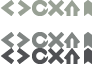
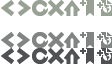
bug 4534 - Make a 'Create Linked Playlist' button for Web bar. (r=matt)
git-svn-id: http://publicsvn.songbirdnest.com/client/trunk@6350 5aad4ff5-4b58-4159-ba3f-0e6328df4cad

diff --git a/components/playlistcommands/src/sbPublicPlaylistCommands.js b/components/playlistcommands/src/sbPublicPlaylistCommands.js
@@ -97,7 +97,6 @@ PublicPlaylistCommands.prototype = {
   m_cmd_Remove                    : null, // remove the selected track(s)
   m_cmd_Edit                      : null, // edit the selected track(s)
   m_cmd_Download                  : null, // download the selected track(s)
-  m_cmd_Subscribe                 : null, // subscribe to the currently displayed site
   m_cmd_AddToLibrary              : null, // add the selection to the library
   m_cmd_CopyTrackLocation         : null, // copy the select track(s) location(s)
   m_cmd_ShowDownloadPlaylist      : null, // switch the outer playlist container to the download playlist
@@ -284,29 +283,6 @@ PublicPlaylistCommands.prototype = {
     this.m_cmd_Download.setCommandEnabledCallback(null,
                                                   "library_cmd_download",
                                                   plCmd_IsAnyTrackSelected);
-    
-    // --------------------------------------------------------------------------
-    // The SUBSCRIBE button
-    // --------------------------------------------------------------------------
-
-    this.m_cmd_Subscribe = new PlaylistCommandsBuilder();
-
-    this.m_cmd_Subscribe.appendAction(null, 
-                                      "library_cmd_subscribe",
-                                      "&command.subscribe",
-                                      "&command.tooltip.subscribe",
-                                      plCmd_Subscribe_TriggerCallback);
-
-    this.m_cmd_Subscribe.setCommandShortcut(null,
-                                            "library_cmd_subscribe",
-                                            "&command.shortcut.key.subscribe",
-                                            "&command.shortcut.keycode.subscribe",
-                                            "&command.shortcut.modifiers.subscribe",
-                                            true);
-
-    this.m_cmd_Subscribe.setCommandEnabledCallback(null,
-                                                   "library_cmd_subscribe",
-                                                   plCmd_CanSubscribe);
 
     // --------------------------------------------------------------------------
     // The ADDTOLIBRARY button
@@ -540,7 +516,6 @@ PublicPlaylistCommands.prototype = {
     this.m_mgr.publish(kPlaylistCommands.MEDIAITEM_REMOVE, this.m_cmd_Remove);
     this.m_mgr.publish(kPlaylistCommands.MEDIAITEM_EDIT, this.m_cmd_Edit);
     this.m_mgr.publish(kPlaylistCommands.MEDIAITEM_DOWNLOAD, this.m_cmd_Download);
-    this.m_mgr.publish(kPlaylistCommands.MEDIAITEM_SUBSCRIBE, this.m_cmd_Subscribe);
     this.m_mgr.publish(kPlaylistCommands.MEDIAITEM_ADDTOLIBRARY, this.m_cmd_AddToLibrary);
     this.m_mgr.publish(kPlaylistCommands.MEDIAITEM_ADDTOPLAYLIST, SBPlaylistCommand_AddToPlaylist);
     this.m_mgr.publish(kPlaylistCommands.MEDIAITEM_COPYTRACKLOCATION, this.m_cmd_CopyTrackLocation);
@@ -597,9 +572,6 @@ PublicPlaylistCommands.prototype = {
     this.m_webPlaylistCommands.appendPlaylistCommands(null, 
                                                       "library_cmdobj_download",
                                                       this.m_cmd_Download);
-    this.m_webPlaylistCommands.appendPlaylistCommands(null, 
-                                                      "library_cmdobj_subscribe",
-                                                      this.m_cmd_Subscribe);
     this.m_webPlaylistCommands.appendPlaylistCommands(null, 
                                                       "library_cmdobj_addtoplaylist",
                                                       SBPlaylistCommand_AddToPlaylist);
@@ -695,7 +667,6 @@ PublicPlaylistCommands.prototype = {
     this.m_mgr.withdraw(kPlaylistCommands.MEDIAITEM_REMOVE, this.m_cmd_Remove);
     this.m_mgr.withdraw(kPlaylistCommands.MEDIAITEM_EDIT, this.m_cmd_Edit);
     this.m_mgr.withdraw(kPlaylistCommands.MEDIAITEM_DOWNLOAD, this.m_cmd_Download);
-    this.m_mgr.withdraw(kPlaylistCommands.MEDIAITEM_SUBSCRIBE, this.m_cmd_Subscribe);
     this.m_mgr.withdraw(kPlaylistCommands.MEDIAITEM_ADDTOLIBRARY, this.m_cmd_AddToLibrary);
     this.m_mgr.withdraw(kPlaylistCommands.MEDIAITEM_ADDTOPLAYLIST, SBPlaylistCommand_AddToPlaylist);
     this.m_mgr.withdraw(kPlaylistCommands.MEDIAITEM_COPYTRACKLOCATION, this.m_cmd_CopyTrackLocation);
@@ -753,7 +724,6 @@ PublicPlaylistCommands.prototype = {
     this.m_cmd_Remove.shutdown();
     this.m_cmd_Edit.shutdown();
     this.m_cmd_Download.shutdown();
-    this.m_cmd_Subscribe.shutdown();
     this.m_cmd_AddToLibrary.shutdown();
     this.m_cmd_CopyTrackLocation.shutdown();
     this.m_cmd_ShowDownloadPlaylist.shutdown();
@@ -871,17 +841,6 @@ function plCmd_Download_TriggerCallback(aContext, aSubMenuId, aCommandId, aHost)
   catch( err )          
   {
     LOG( "plCmd_Download_TriggerCallback Error:" + err );
-  }
-}
-
-// Called when the subscribe action is triggered
-function plCmd_Subscribe_TriggerCallback(aContext, aSubMenuId, aCommandId, aHost) {
-  // Bring up the subscribe dialog with the web playlist url
-  // XXX this should instead extract the url from an #originPage property on the list
-  var window = unwrap(aContext.window);
-  var browser = window.gBrowser;
-  if (browser) {
-    window.SBSubscribe(null, browser.currentURI); 
   }
 }
 
@@ -1069,12 +1028,6 @@ function plCmd_IsToolbarInstantiator(aContext, aSubMenuId, aCommandId, aHost) {
 function plCmd_IsNotLibraryContext(aContext, aSubMenuId, aCommandId, aHost) {
   var medialist = unwrap(aContext.medialist);
   return (medialist.library != medialist);
-}
-
-// Returns true if the conditions are ok for subscribing to a page
-function plCmd_CanSubscribe(aContext, aSubMenuId, aCommandId, aHost) {
-  return plCmd_IsNotLibraryContext(aContext, aSubMenuId, aCommandId, aHost) &&
-        plCmd_ContextHasBrowser(aContext, aSubMenuId, aCommandId, aHost);
 }
 
 // Returns true if the conditions are ok for adding tracks to the library

diff --git a/app/skin/bindings/browsertoolbar.css b/app/skin/bindings/browsertoolbar.css
@@ -162,8 +162,23 @@ Imported by bindings.css or directly into feathers.
 {
   -moz-image-region: rect(32px 96px 48px 80px);
 }
-
-
+#linked-playlist-button
+{
+  list-style-image: url(chrome://songbird/skin/buttons/webbar-buttons.png);
+  -moz-image-region: rect(0px 112px 16px 96px);
+}
+#linked-playlist-button:hover
+{
+  -moz-image-region: rect(16px 112px 32px 96px);
+}
+#linked-playlist-button[disabled="true"]
+{
+  -moz-image-region: rect(48px 112px 64px 96px);
+}
+#linked-playlist-button[active="true"]
+{
+  -moz-image-region: rect(32px 112px 48px 96px);
+}
 
 /** 
 ***************************************************************************************************
